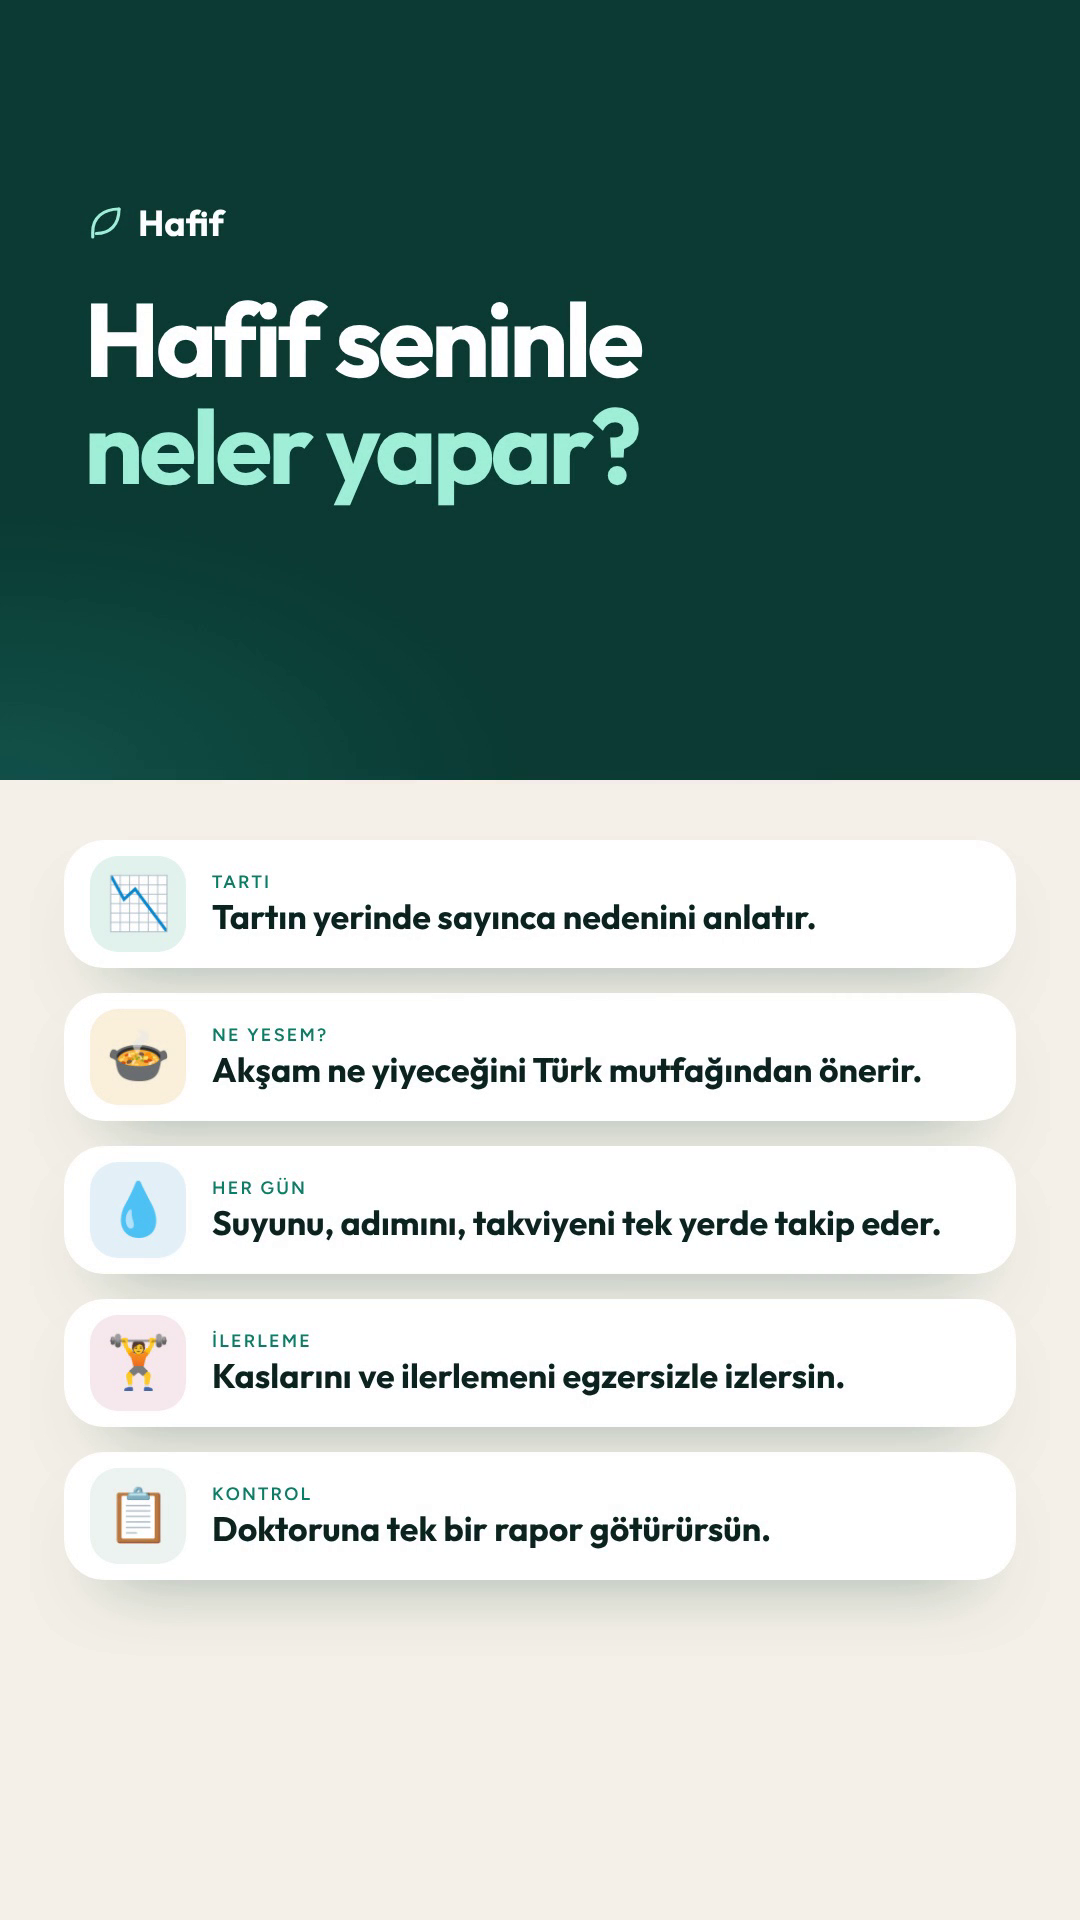
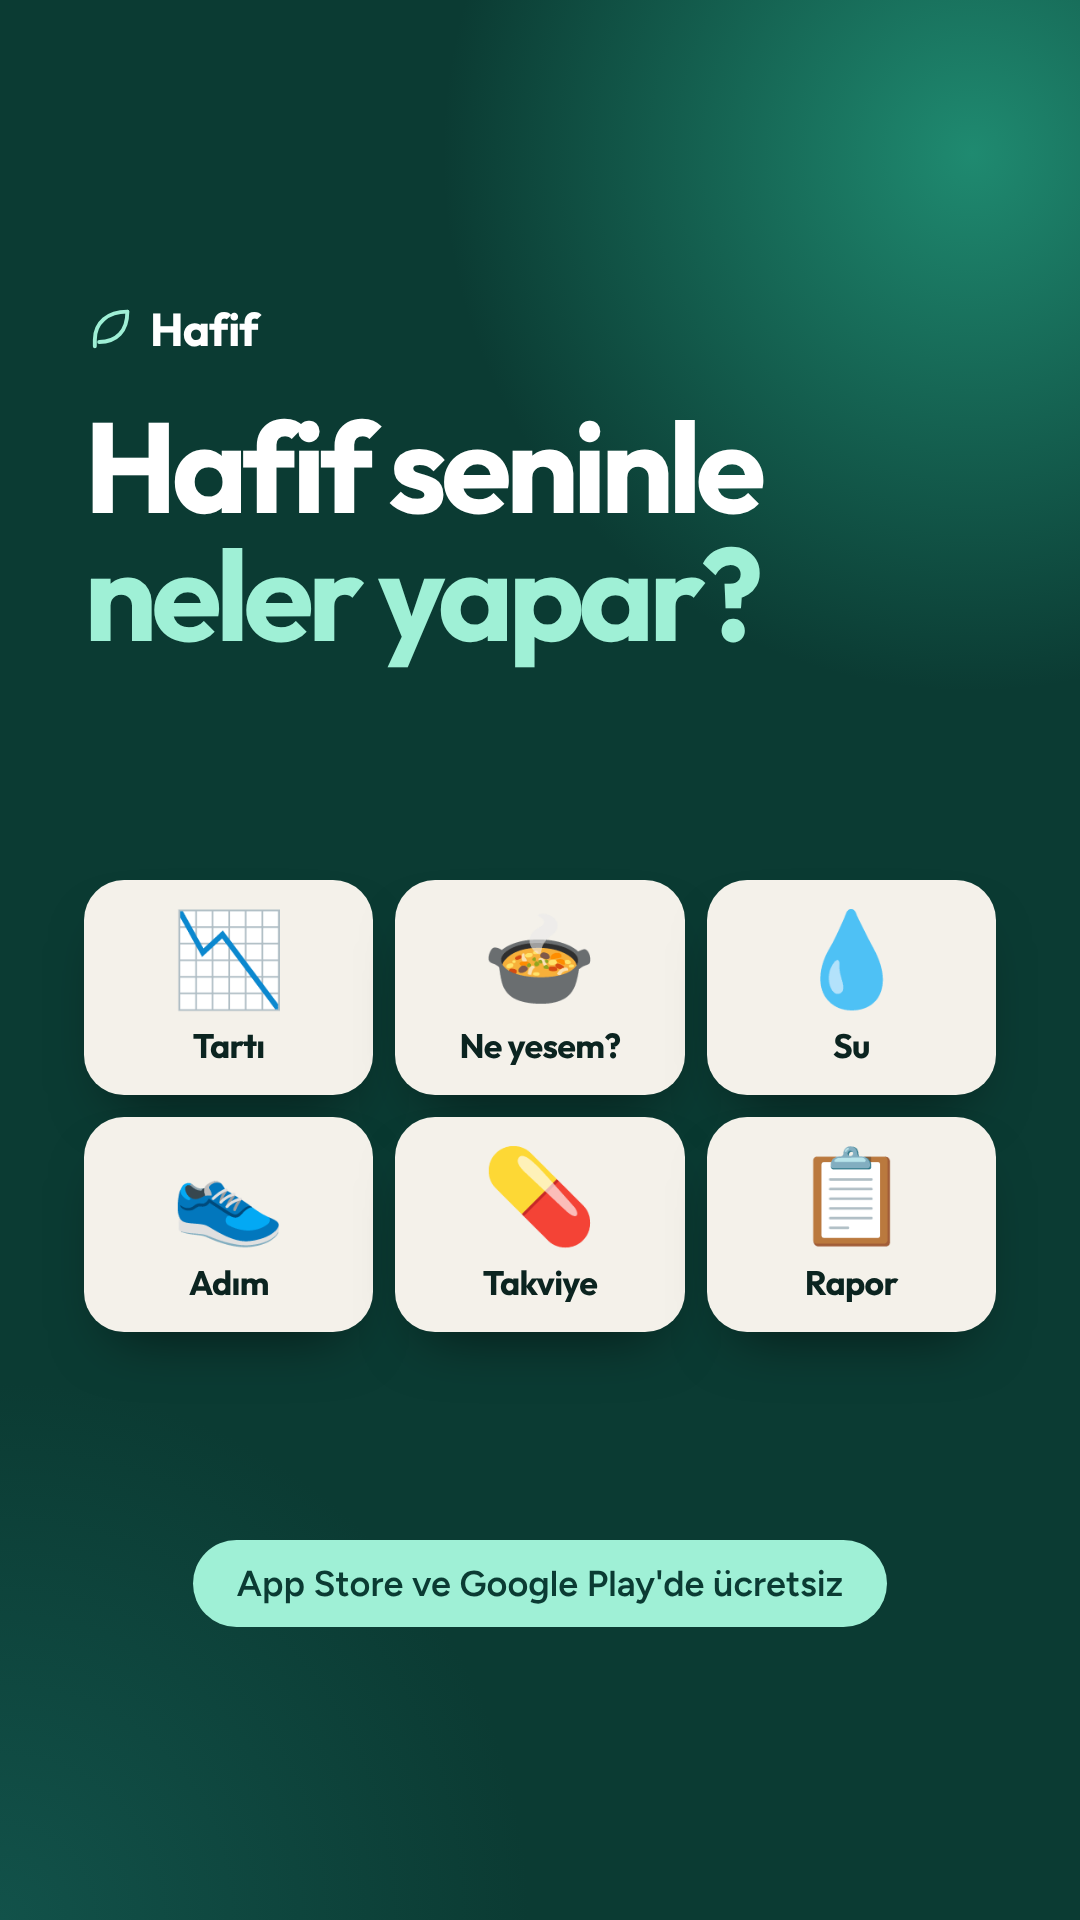
Reklam: hafif-reklam-2 için özel Reels kapağı
Claude-Session: https://claude.ai/code/session_01EnGhTxvQnwYi4dDNSxPvud

diff --git a/magaza/kaynak/video/kapak-reklam-2.html b/magaza/kaynak/video/kapak-reklam-2.html
@@ -1,0 +1,30 @@
+<!doctype html>
+<html lang="tr"><head><meta charset="utf-8">
+<link rel="stylesheet" href="../../../www/fonts/fonts.css">
+<!-- Reels kapağı 1080×1920. Önemli içerik ortadaki 1080×1440 (profil ızgarası 3:4) içinde: y 240–1680. -->
+<style>
+html,body{margin:0;width:1080px;height:1920px;overflow:hidden}
+*{box-sizing:border-box}
+body{font-family:Figtree,sans-serif;color:#fff;background:radial-gradient(70% 40% at 90% 8%,#1F8A70 0%,transparent 70%),radial-gradient(70% 40% at 0% 100%,#12524A 0%,transparent 70%),#0B3B33}
+.e{font-family:"Noto Color Emoji";font-style:normal;line-height:1}
+.w{position:absolute;left:84px;right:84px;top:300px}
+.lg{display:flex;align-items:center;gap:14px;font:700 46px Outfit;letter-spacing:-.02em}.lg svg{width:52px;height:52px}
+h1{margin:44px 0 0;font:700 128px/1 Outfit;letter-spacing:-.045em}h1 em{font-style:normal;color:#9FF0D6}
+.g{position:absolute;left:84px;right:84px;top:880px;display:grid;grid-template-columns:repeat(3,1fr);gap:22px}
+.c{background:#F4F1EA;color:#0B2420;border-radius:40px;padding:34px 10px 28px;text-align:center;box-shadow:0 30px 60px -30px rgba(0,0,0,.6)}
+.c .e{font-size:92px;display:block}.c b{display:block;margin-top:18px;font:700 34px Outfit;letter-spacing:-.02em}
+.st{position:absolute;left:0;right:0;top:1540px;text-align:center}
+.st span{display:inline-block;background:#9FF0D6;color:#0B3B33;border-radius:99px;padding:22px 44px;font:700 36px Figtree}
+</style></head><body>
+<div class="w"><div class="lg"><svg viewBox="0 0 24 24" fill="none" stroke="#9FF0D6" stroke-width="1.8" stroke-linecap="round"><path d="M20 4C11 4 5 9 5 17v3"/><path d="M20 4c0 9-5 14-13 14"/></svg>Hafif</div>
+<h1>Hafif seninle<br><em>neler yapar?</em></h1></div>
+<div class="g">
+<div class="c"><i class="e">📉</i><b>Tartı</b></div>
+<div class="c"><i class="e">🍲</i><b>Ne yesem?</b></div>
+<div class="c"><i class="e">💧</i><b>Su</b></div>
+<div class="c"><i class="e">👟</i><b>Adım</b></div>
+<div class="c"><i class="e">💊</i><b>Takviye</b></div>
+<div class="c"><i class="e">📋</i><b>Rapor</b></div>
+</div>
+<div class="st"><span>App Store ve Google Play'de ücretsiz</span></div>
+</body></html>
